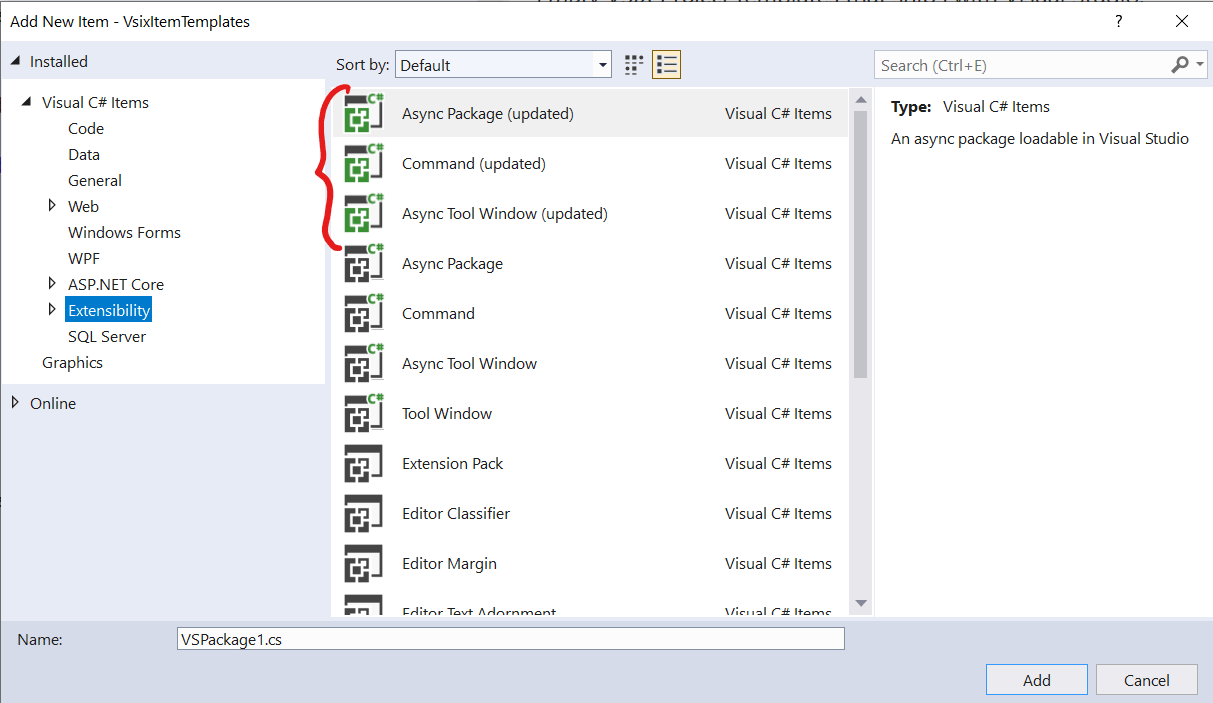
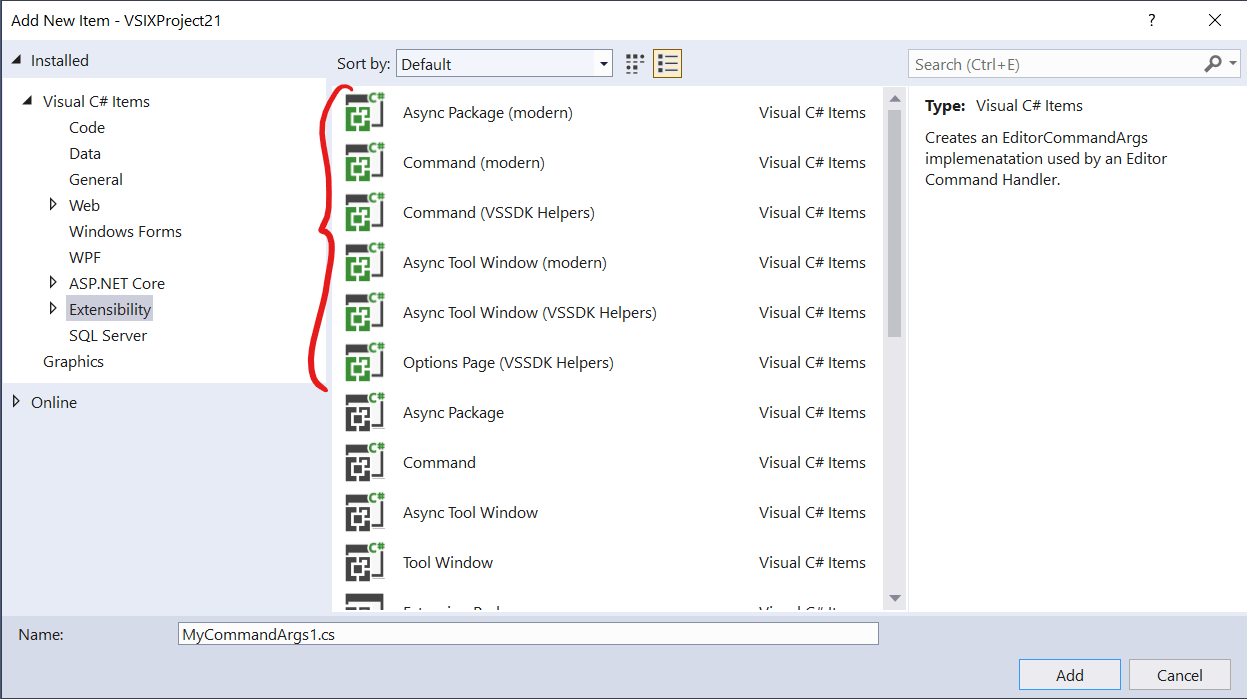
Updates

diff --git a/src/ItemTemplates/OptionsPage/OptionsPage.cs b/src/ItemTemplates/OptionsPage/OptionsPage.cs
@@ -1,0 +1,22 @@
+using System.ComponentModel;
+using Microsoft.VisualStudio.Helpers.Options;
+
+namespace $rootnamespace$
+{
+    internal partial class OptionsProvider
+    {
+        // Register the options with these attributes on your package class:
+        // [ProvideOptionPage(typeof(OptionsProvider.$safeitemname$Options), "My options", "$safeitemname$", 0, 0, true)]
+        // [ProvideProfile(typeof(OptionsProvider.$safeitemname$Options), "My options", "$safeitemname$", 0, 0, true)]
+        public class $safeitemname$Options : BasePage<$safeitemname$> { }
+    }
+
+    public class $safeitemname$ : BaseModel<$safeitemname$>
+    {
+        [Category("My category")]
+        [DisplayName("My Option")]
+        [Description("An informative description.")]
+        [DefaultValue(true)]
+        public bool MyOption { get; set; } = true;
+    }
+}

diff --git a/README.md b/README.md
@@ -1,4 +1,4 @@
-# Extensibility Templates
+# Extensibility Template Pack
 
 [![Build status](https://ci.appveyor.com/api/projects/status/g3ro787tkr2a106m?svg=true)](https://ci.appveyor.com/project/madskristensen/vsixitemtemplates)
 
@@ -9,19 +9,19 @@ or get the [CI build](https://www.vsixgallery.com/extension/88049e1e-62f2-4ea2-8
 
 ----------------------------------------------
 
-A template pack for Visual Studio extension authors.
+A template pack for Visual Studio extension authors full of useful project- and item templates.
 
 ## Project templates
 Two new project templates replaces the existing *VSIX Project* and *Empty VSIX Project* templates that ships with Visual Studio.
 
-The two project templates are:
+The two project templates also include a reference to the NuGet package [Madskristensen.VisualStudio.SDK.Helpers](https://www.nuget.org/packages/Madskristensen.VisualStudio.SDK.Helpers/), which makes extension development a lot easier.
 
-### 1. VSIX Project (updated)
+### 1. VSIX Project (VSSDK Helpers)
 This template generates a clean VSIX project with a *AsyncPackage* class, an extension icon, and NuGet references to the VSSDK.
 
 ![Vsix Project](art/vsix-project.png)
 
-### 2. Empty VSIX Project (updated)
+### 2. Empty VSIX Project (VSSDK Helpers)
 This template generates an empty VSIX project with only an extension icon and NuGet references to the VSSDK.
 
 ![Empty Vsix Project](art/empty-vsix-project.png)
@@ -33,13 +33,18 @@ Find both templates in the New Project Dialog.
 They are both cleaned up and simplified versions of the built in templates.
 
 ## Item templates
-The first three item templates are cleanup and simplified versions of the built in templates.
+The templates marked `(modern)` can be used with the regular Visual Studio SDK. They are a cleaned up and modern version of the original templates, but the follow best practices and are much simpler.
 
-* [Async Package (updated)](https://github.com/madskristensen/VsixItemTemplates/blob/master/src/ItemTemplates/Package/VsPkg.cs)
-* [Command (updated)](https://github.com/madskristensen/VsixItemTemplates/blob/master/src/ItemTemplates/CustomCommand/Command.cs)
-* [Async Tool Window (updated)](https://github.com/madskristensen/VsixItemTemplates/tree/master/src/ItemTemplates/ToolWindow)
+The templates marked `(VSSDK Helpers)` can be used with the NuGet package [Madskristensen.VisualStudio.SDK.Helpers](https://www.nuget.org/packages/Madskristensen.VisualStudio.SDK.Helpers/) which makes extension development much easier.
 
-![Add New Items](art/add-new-items.png)
+* [Async Package (modern)](https://github.com/madskristensen/VsixItemTemplates/blob/master/src/ItemTemplates/Package/VsPkg.cs)
+* [Command (modern)](https://github.com/madskristensen/VsixItemTemplates/blob/master/src/ItemTemplates/CustomCommand/Command.cs)
+* [Command (VSSDK Helpers)](https://github.com/madskristensen/VsixItemTemplates/blob/master/src/ItemTemplates/CustomCommandOptimized/Command.cs)
+* [Async Tool Window (modern)](https://github.com/madskristensen/VsixItemTemplates/tree/master/src/ItemTemplates/ToolWindow)
+* [Async Tool Window (VSSDK Helpers)](https://github.com/madskristensen/VsixItemTemplates/tree/master/src/ItemTemplates/ToolWindow%20Optimized)
+* [Options Page (VSSDK Helpers)](https://github.com/madskristensen/VsixItemTemplates/blob/master/src/ItemTemplates/OptionsPage/OptionsPage.cs)
+
+![Add New Items](art/add-new-items.png?)
 
 In addition, there are seveal other templates available.
 
